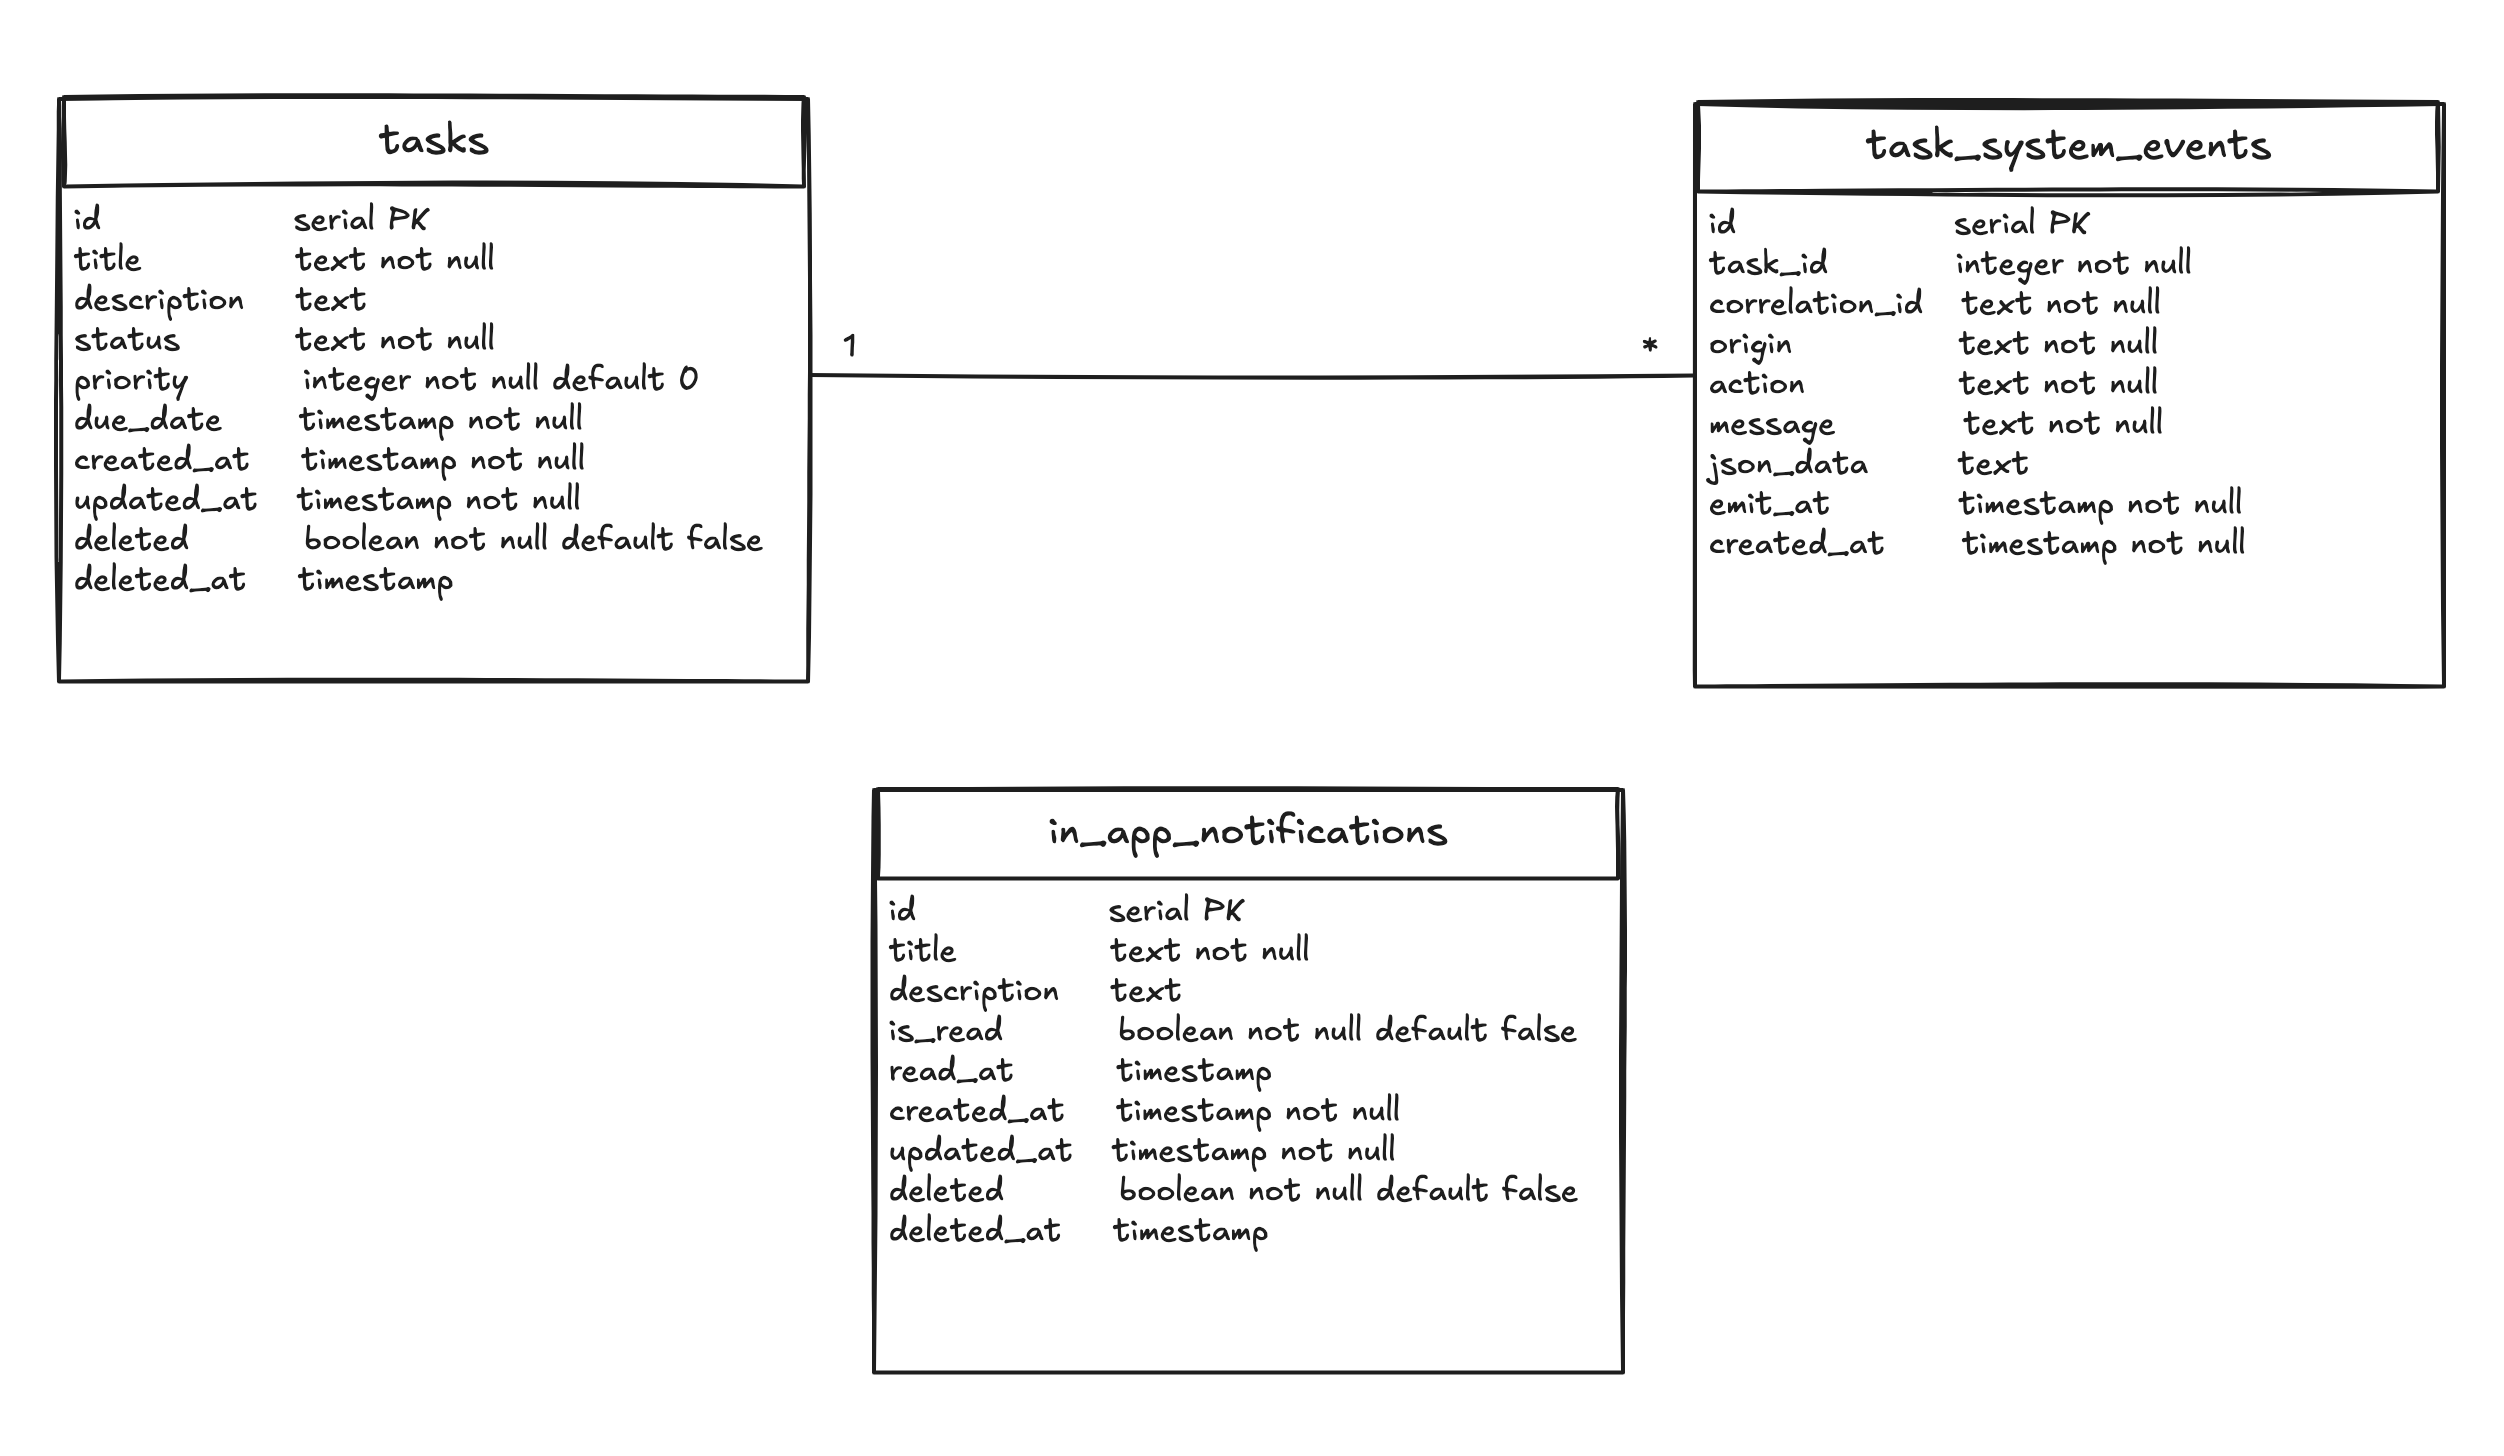
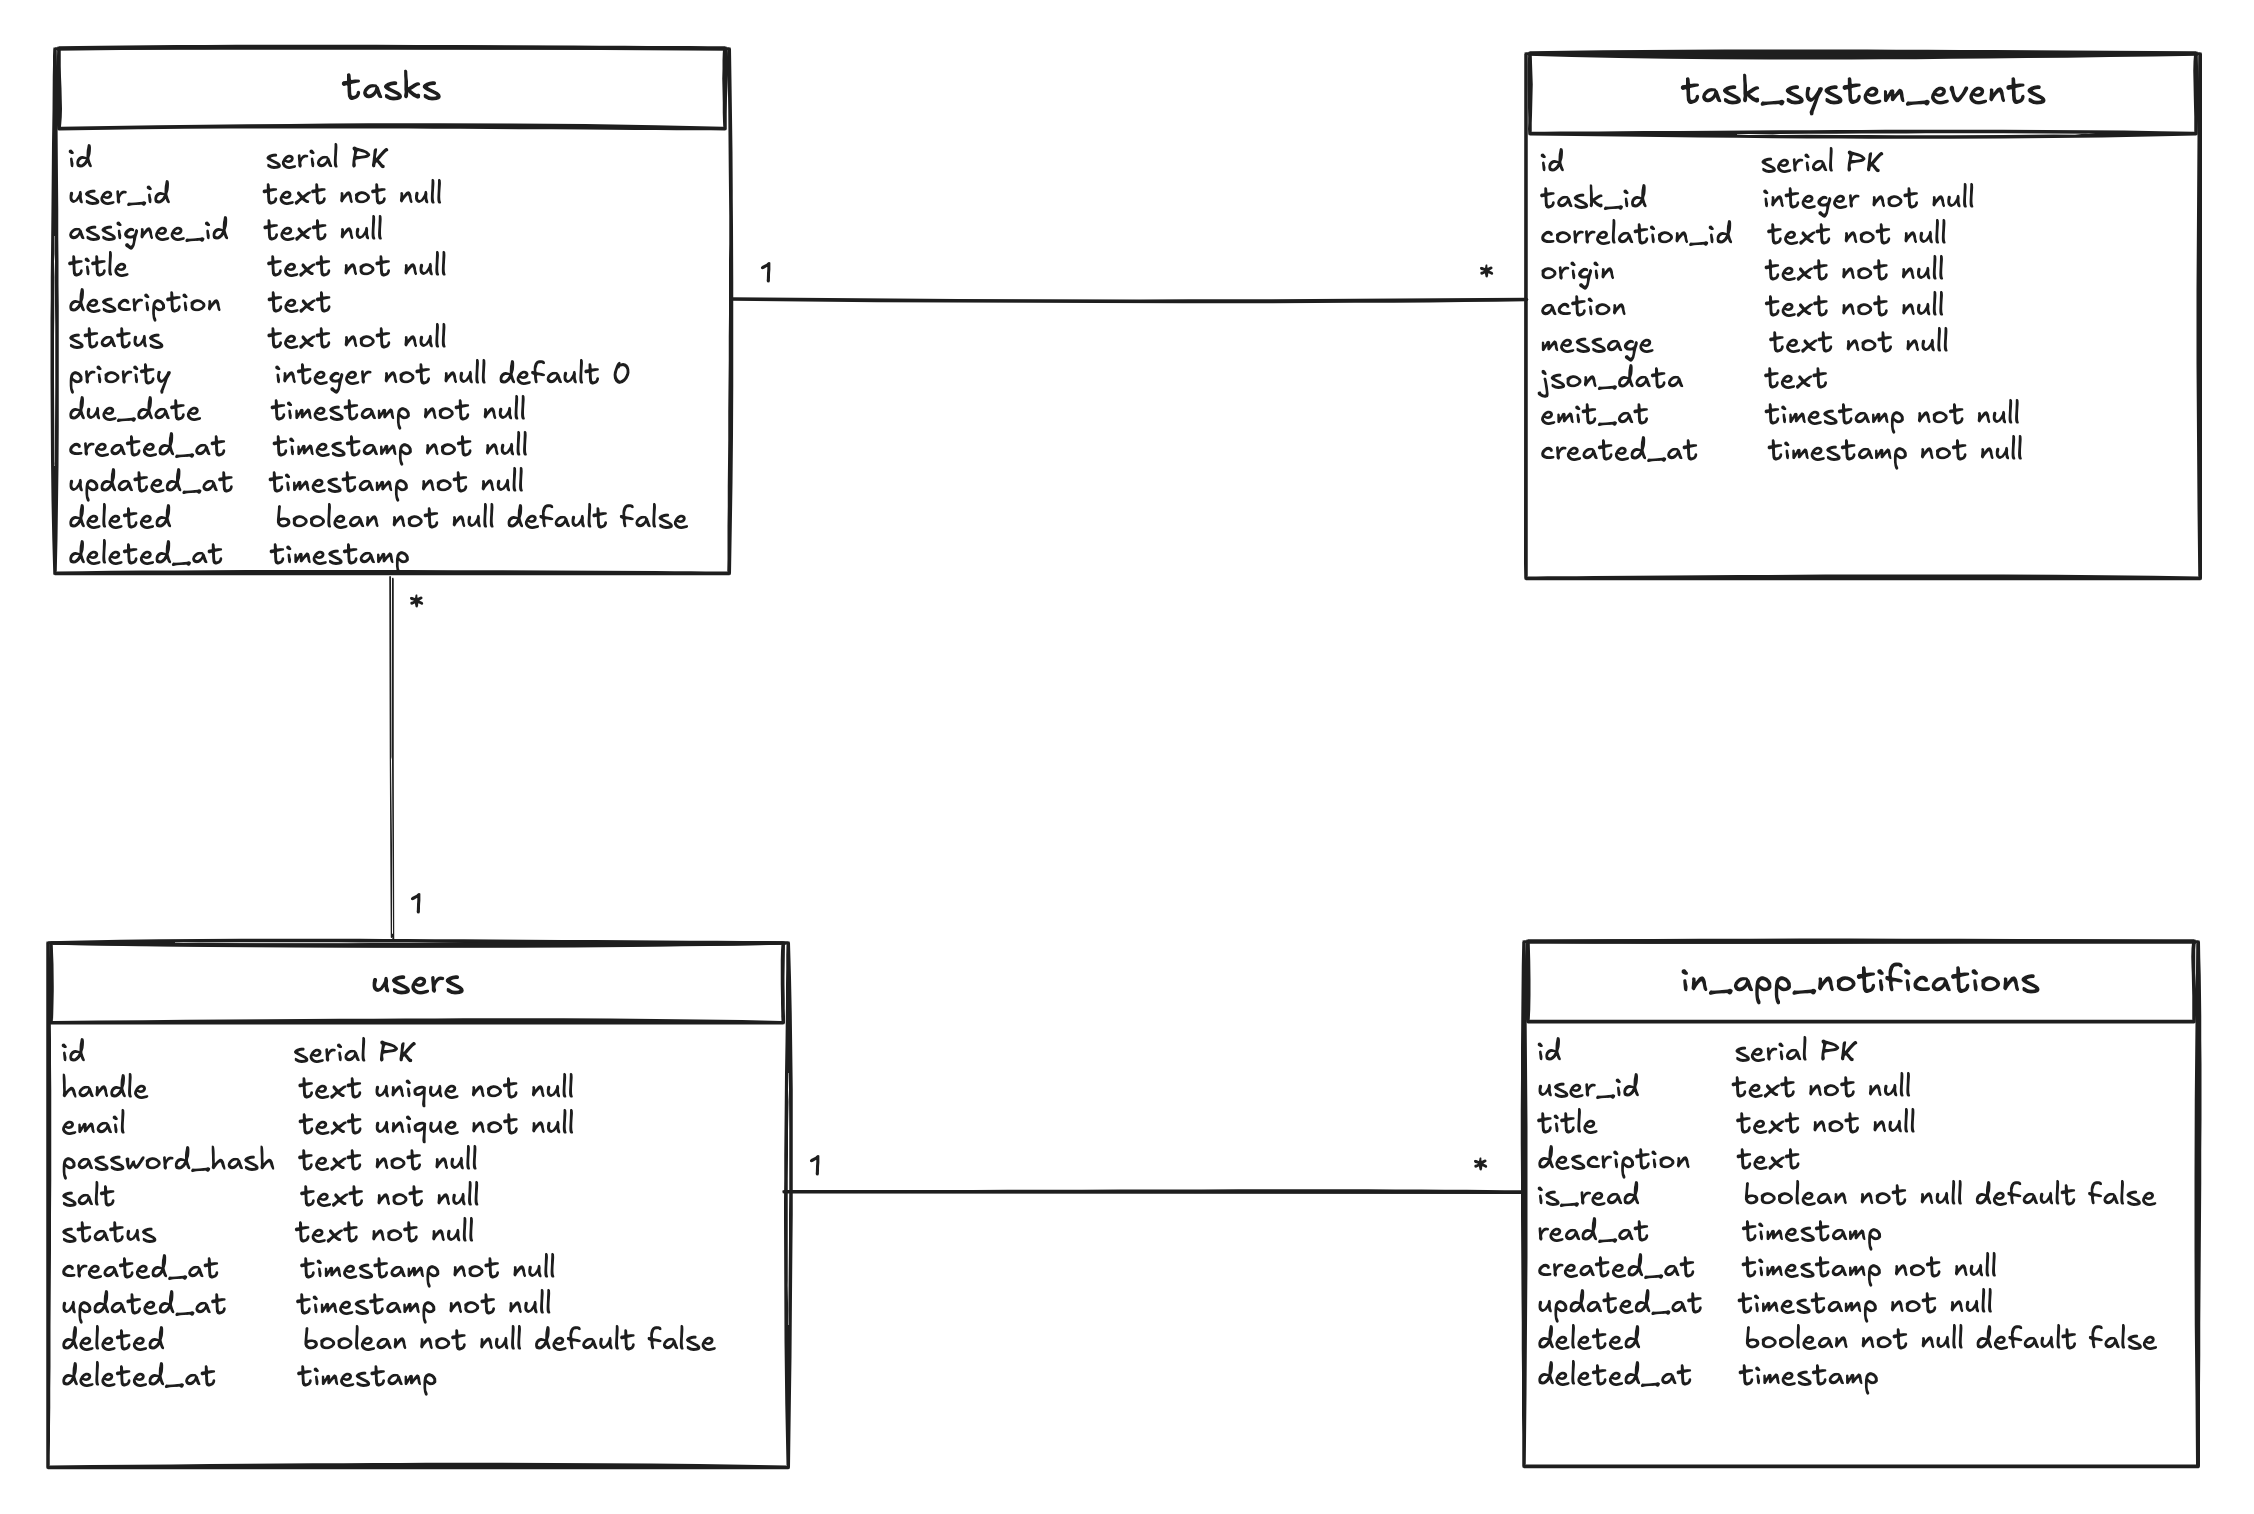
chore: update db schema

diff --git a/README.md b/README.md
@@ -21,12 +21,12 @@ The frontend is built with Next.js and Tailwind CSS, providing an intuitive user
 
 ## Technology Stack
 
-- **API Gateway**: Custom implementation in Go (Golang)
+- **API Gateway**: Custom implementation in Go (Golang) with Authentication
 - **Frontend**: TypeScript, Next.js, Tailwind CSS
 - **Database**: PostgreSQL
 - **Communication**: gRPC for service-to-service communication
 - **Containerization**: Docker
-- **AWS**: Lambda, EKS, CDK
+- **AWS**: Lambda, SQS, CDK
 
 
 ### API
@@ -37,17 +37,24 @@ The frontend is built with Next.js and Tailwind CSS, providing an intuitive user
 - Routes:
   - GET /api/_health - Health check route
 
-  - GET /api/tasks - List all tasks
-  - POST /api/tasks - Create a new task
-  - GET /api/tasks/{id} - Get task details
-  - PUT /api/tasks/{id} - Update a task
-  - DELETE /api/tasks/{id} - Delete a task
+  - POST /api/v1/auth/signin - Sign-In a user
+  - POST /api/v1/auth/signup - Sign-Up a user
+  - POST /api/v1/auth/refresh-token - Refresh access token of the user
+  - POST /api/v1/auth/signout - Sign-Out a user
+  - POST /api/v1/auth/forgot-password - Start forgot password flow
+  - POST /api/v1/auth/reset-password - End forgot password flow
 
-  - GET /api/notifications
-  - POST /api/notifications/{id}/read
-  - DELETE /api/notifications/{id}
+  - GET     /api/v1/tasks - List all tasks
+  - POST    /api/v1/tasks - Create a new task
+  - GET     /api/v1/tasks/{id} - Get task details
+  - PUT     /api/v1/tasks/{id} - Update a task
+  - DELETE  /api/v1/tasks/{id} - Delete a task
 
-  - GET /api/task-system-events
+  - GET     /api/v1/notifications
+  - POST    /api/v1/notifications/{id}/read
+  - DELETE  /api/v1/notifications/{id}
+
+  - GET /api/v1/task-system-events
 
 ### Notification Microservice
 
